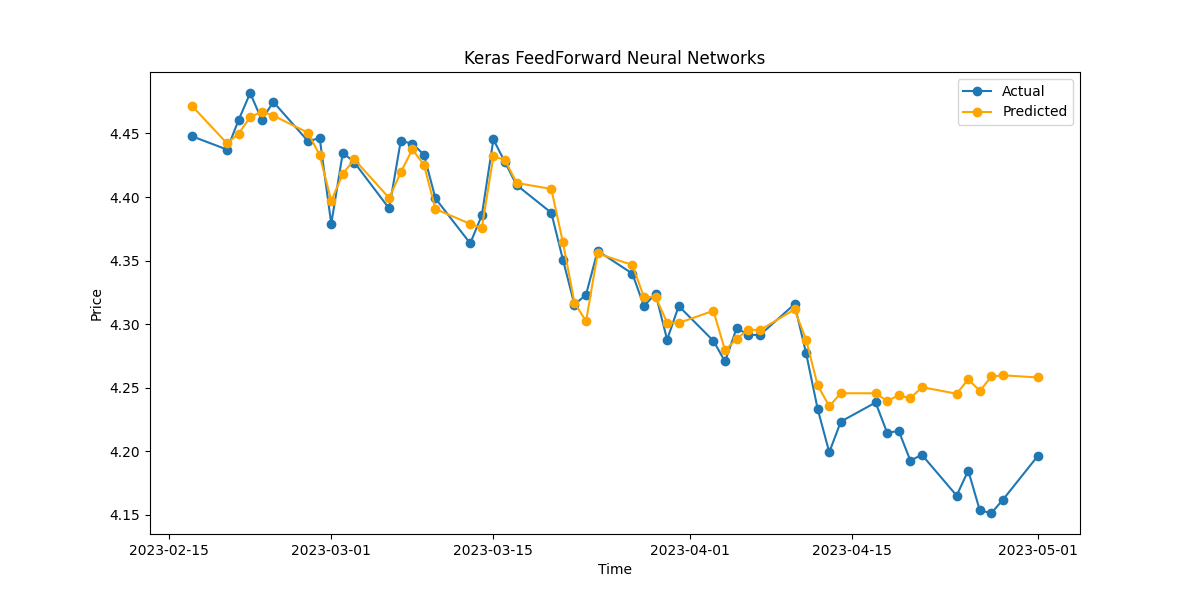
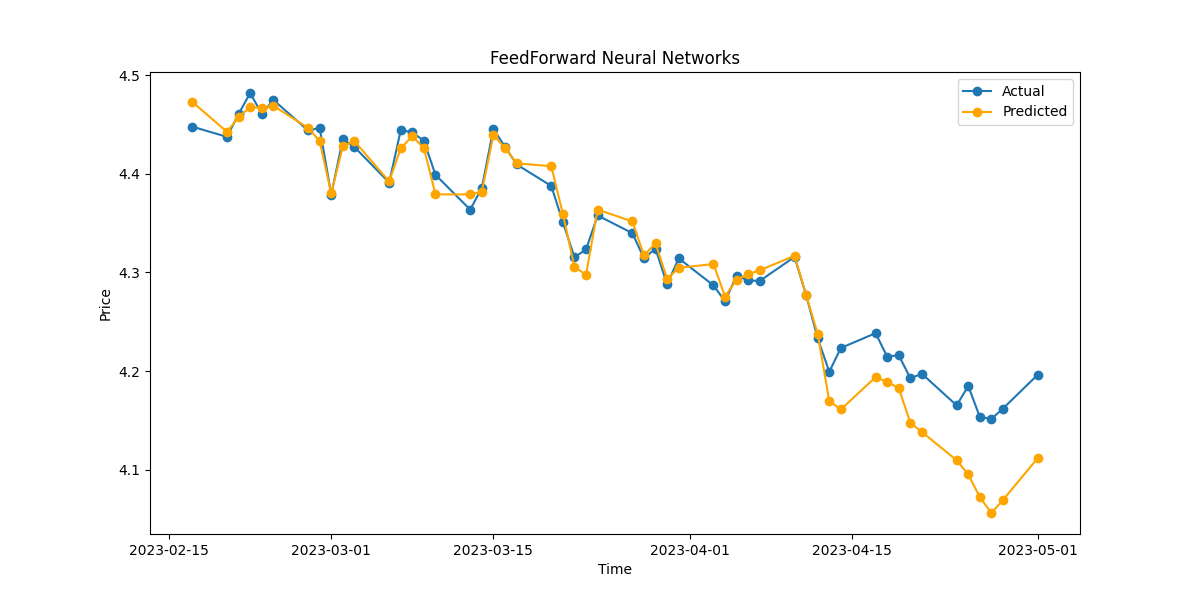
add feedforward neural network

diff --git a/app/core/models/neural_network.py b/app/core/models/neural_network.py
@@ -1,0 +1,110 @@
+import numpy as np
+
+
+class Layer:
+    def __init__(self, input_size, output_size, activation):
+        self.weights = np.random.randn(input_size, output_size)
+        self.bias = np.zeros((1, output_size))
+        self.activation = activation
+        self.input = None
+        self.gradient_weights = None
+        self.gradient_bias = None
+        self.momentum_weights = np.zeros_like(self.weights)
+        self.momentum_bias = np.zeros_like(self.bias)
+        self.rmsprop_weights = np.zeros_like(self.weights)
+        self.rmsprop_bias = np.zeros_like(self.bias)
+        self.t = 0  # Time step for bias correction
+
+    def forward(self, X):
+        self.input = X
+        output = np.dot(X, self.weights) + self.bias
+        if self.activation == 'relu':
+            self.output = np.maximum(0, output)
+        else:
+            self.output = output
+        return self.output
+
+    def backward(self, gradient):
+        if self.activation == 'relu':
+            gradient = gradient * (self.output > 0)
+        self.gradient_weights = np.dot(self.input.T, gradient)
+        self.gradient_bias = np.sum(gradient, axis=0)
+        gradient_input = np.dot(gradient, self.weights.T)
+        return gradient_input
+
+
+class NeuralNetwork:
+    def __init__(self):
+        self.layers = []
+
+    def add(self, layer):
+        self.layers.append(layer)
+
+    def compile(self, optimizer, loss):
+        self.optimizer = optimizer
+        self.loss = loss
+
+    def fit(self, X, y, epochs, batch_size):
+        for epoch in range(epochs):
+            for batch_start in range(0, len(X), batch_size):
+                batch_end = batch_start + batch_size
+                X_batch = X[batch_start:batch_end]
+                y_batch = y[batch_start:batch_end]
+                self.train_on_batch(X_batch, y_batch)
+
+            output = self.predict(X)
+            loss = np.mean((output - y) ** 2)
+
+            # Print the epoch and loss in the desired format
+            print(f"Epoch {epoch + 1}/{epochs}")
+            print(f"{len(X) // batch_size}/{len(X) // batch_size} [==============================] - {loss:.4f}")
+
+    def train_on_batch(self, X, y):
+        # Forward pass
+        output = X
+        for layer in self.layers:
+            output = layer.forward(output)
+
+        # Compute loss
+        loss = np.mean((output - y) ** 2)
+
+        # Backpropagation
+        gradient = 2 * (output - y)
+        for layer in reversed(self.layers):
+            gradient = layer.backward(gradient)
+
+        # Update weights and biases using Adam optimizer
+        for layer in self.layers:
+            self.update_layer(layer)
+
+    def update_layer(self, layer):
+        learning_rate = 0.001
+        beta1 = 0.9
+        beta2 = 0.99
+        epsilon = 1e-8
+
+        # Update momentum
+        layer.momentum_weights = beta1 * layer.momentum_weights + (1 - beta1) * layer.gradient_weights
+        layer.momentum_bias = beta1 * layer.momentum_bias + (1 - beta1) * layer.gradient_bias
+
+        # Update RMSProp
+        layer.rmsprop_weights = beta2 * layer.rmsprop_weights + (1 - beta2) * (layer.gradient_weights ** 2)
+        layer.rmsprop_bias = beta2 * layer.rmsprop_bias + (1 - beta2) * (layer.gradient_bias ** 2)
+
+        # Bias correction
+        layer.t += 1
+        momentum_weights_corrected = layer.momentum_weights / (1 - beta1 ** layer.t)
+        momentum_bias_corrected = layer.momentum_bias / (1 -beta1 ** layer.t)
+
+        rmsprop_weights_corrected = layer.rmsprop_weights / (1 - beta2 ** layer.t)
+        rmsprop_bias_corrected = layer.rmsprop_bias / (1 - beta2 ** layer.t)
+
+        # Update weights and biases
+        layer.weights -= learning_rate * (momentum_weights_corrected / (np.sqrt(rmsprop_weights_corrected) + epsilon))
+        layer.bias -= learning_rate * (momentum_bias_corrected / (np.sqrt(rmsprop_bias_corrected) + epsilon))
+
+    def predict(self, X):
+        output = X
+        for layer in self.layers:
+            output = layer.forward(output)
+        return output

diff --git a/app/core/commands/feedforward.py b/app/core/commands/feedforward.py
@@ -1,8 +1,6 @@
 import logging
 from argparse import Namespace
-
 from pandas import DataFrame
-
 from core.data.visualization import inspect_data
 from core.management import BaseCommand, BaseCommandArgumentParser
 from core.data.mse import calculate_mse
@@ -11,7 +9,7 @@ from matplotlib import pyplot as plt
 from core.utils.files import save_chart
 import numpy as np
 from sklearn.preprocessing import MinMaxScaler
-from tensorflow import keras
+from core.models.neural_network import NeuralNetwork, Layer
 
 
 class Command(BaseCommand):
@@ -32,26 +30,31 @@ class Command(BaseCommand):
 
         train_features = train_data_scaled[:, :-1]
         train_target = train_data_scaled[:, -1]
+        train_target = train_target.reshape(-1, 1)  # Reshape train_target
 
         print(train_features.shape)
         print(train_target.shape)
 
-        model = keras.Sequential([
-            keras.layers.Dense(8, activation='relu', input_shape=(train_features.shape[1],)),
-            keras.layers.Dense(1)
-        ])
-        model.compile(optimizer='adam', loss='mean_squared_error')
+        model = NeuralNetwork()
+        model.add(Layer(train_features.shape[1], 8, activation='relu'))
+        # model.add(Layer(64, 32, activation='relu'))
+        model.add(Layer(8, 1, activation='linear'))
+
+        model.compile(optimizer='adam', loss='mse')
 
         model.fit(train_features, train_target, epochs=1000, batch_size=16)
 
         test_features = test_data_scaled[:, :-1]
+
         predictions = model.predict(test_features)
 
         predictions = scaler.inverse_transform(np.concatenate((test_features, predictions), axis=1))[:, -1]
+
         mse = calculate_mse(predictions, test_data['Close'].values)
         self.logger.info(f"MSE: {mse}")
 
         self.plot(test_data, predictions, args)
+
 
     def plot(self, actual_values: DataFrame, predictions: np.ndarray, args: Namespace):
         plt.figure(figsize=(12, 6))
@@ -60,17 +63,17 @@ class Command(BaseCommand):
         plt.title('USD/PLN Actual vs. Predicted Prices')
         plt.xlabel('Time')
         plt.ylabel('Price')
-        plt.title("Keras FeedForward Neural Networks")
+        plt.title("FeedForward Neural Networks")
         plt.legend()
         save_chart(args.title, self.logger)
         plt.show()
 
     def get_parsed_args(self) -> Namespace:
         parser = BaseCommandArgumentParser(
-            description='Calculate price using Feedforward Neural Networks with keras'
+            description='Calculate price using Feedforward Neural Networks'
         )
         parser.add_argument('--test_size', type=float, help='Test data size', default=0.2)
-        args, _ = parser.parse_known_args(title="keras-feedforward-neural-network")
+        args, _ = parser.parse_known_args(title="feedforward-neural-network")
         if args.verbose:
             self.logger.setLevel(logging.INFO)
         return args

diff --git a/app/core/commands/sklearn_linear_regression.py b/app/core/commands/sklearn_linear_regression.py
@@ -35,8 +35,8 @@ class Command(BaseCommand):
         self.plot(test_data, y_pred, args)
 
     def plot(self, test_data: DataFrame, y_pred: DataFrame, args: Namespace):
-        plt.plot(test_data.index, y_pred, label='Regression Line')
-        plt.scatter(test_data.index, test_data['Close'], s=2, label='Actual Data')
+        plt.plot(test_data.index, y_pred, marker='o', label='Predicted', color='orange')
+        plt.scatter(test_data.index, test_data['Close'], marker='o', label='Actual', c='#1f77b4')
         plt.xlabel('Date')
         plt.ylabel('Price')
         plt.legend()

diff --git a/app/core/models/README.md b/app/core/models/README.md
@@ -13,3 +13,4 @@ The architecture of this neural network is sequential, meaning that the layers a
 The model is trained using the mean squared error (MSE) loss function and the Adam optimizer. The MSE loss function is commonly used for regression tasks, aiming to minimize the squared difference between the predicted and actual values.
 
 Overall, this neural network architecture can be considered a basic MLP model suitable for regression problems like predicting USD/PLN prices.
+
